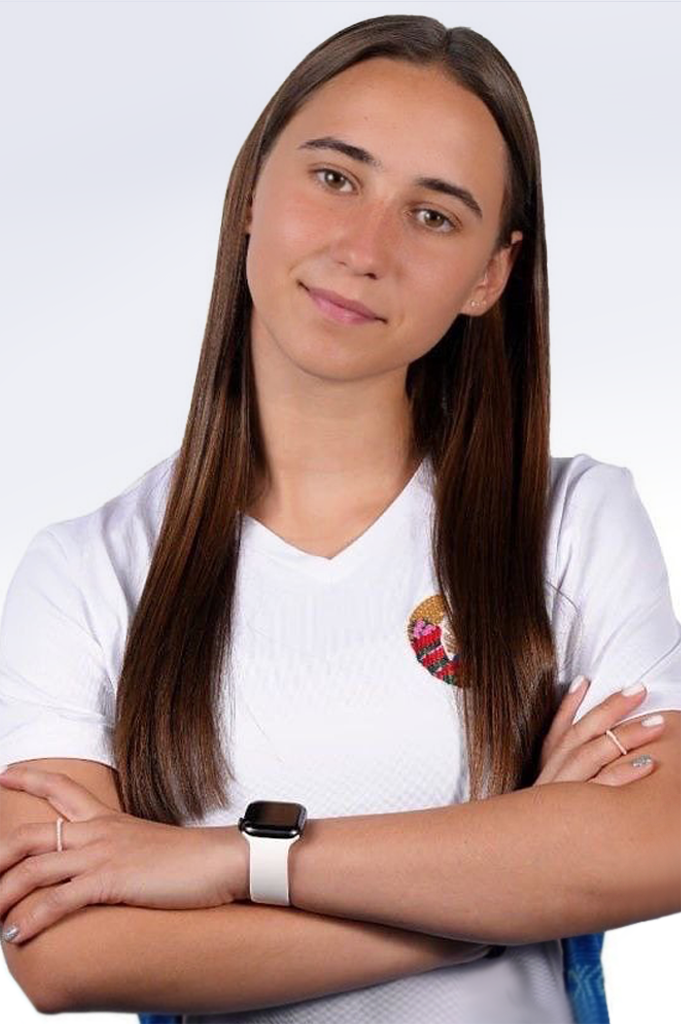
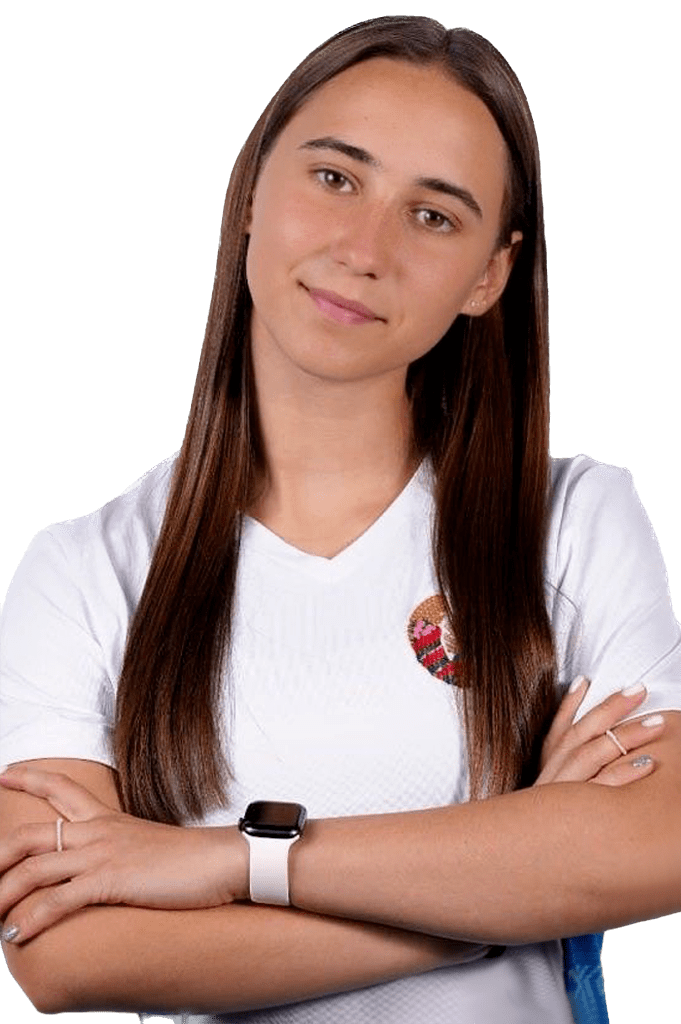
bg/athletes/

diff --git a/athletes.html b/athletes.html
@@ -43,61 +43,61 @@
     <section class="athletes">
       <div class="container athletes-container">
         <div class="athletes-item">
-          <img src="./images/Гуськова-min.jpeg" class="athletes-image">
+          <img src="./images/Гуськова.png" class="athletes-image">
           <div class="athletes-info">
             <p class="athletes-info-text">Гуськова Анна Андреевна</p>
             <p class="athletes-info-text">28.08.1992</p>
-            <p class="athletes-info-text">фристайл</p>
+            <p class="athletes-info-text">Фристайл, Минск</p>
             <p class="athletes-info-text">Заслуженный мастер спорта Республики Беларусь</p>
             <a class="athletes-link" href="https://www.fis-ski.com/DB/general/athlete-biography.html?sectorcode=FS&competitorid=113638" target="_blank">FIS</a>
           </div>
         </div>
         <div class="athletes-item">
-          <img src="./images/Гладченко-min.jpeg" class="athletes-image">
+          <img src="./images/Гладченко.png" class="athletes-image">
           <div class="athletes-info">
             <p class="athletes-info-text">Гладченко Станислав Александрович</p>
             <p class="athletes-info-text">14.09.1994</p>
-            <p class="athletes-info-text">фристайл</p>
+            <p class="athletes-info-text">Фристайл, Минск</p>
             <p class="athletes-info-text">Мастер спорта международного класса</p>
             <a class="athletes-link" href="https://www.fis-ski.com/DB/general/athlete-biography.html?sectorcode=FS&competitorid=153273" target="_blank">FIS</a>
           </div>
         </div>
         <div class="athletes-item">
-          <img src="./images/Тимерцев-min.jpeg" class="athletes-image">
+          <img src="./images/Тимерцев.png" class="athletes-image">
           <div class="athletes-info">
             <p class="athletes-info-text">Тимерцев Вячеслав Александрович</p>
             <p class="athletes-info-text">09.05.2000</p>
-            <p class="athletes-info-text">фристайл</p>
+            <p class="athletes-info-text">Фристайл, Гомель</p>
             <p class="athletes-info-text">Мастер спорта </p>
             <a class="athletes-link" href="https://www.fis-ski.com/DB/general/athlete-biography.html?sectorcode=FS&competitorid=189217" target="_blank">FIS</a>
           </div>
         </div> 
         <div class="athletes-item">
-          <img src="./images/Дик-min.jpeg" class="athletes-image">
+          <img src="./images/Дик.png" class="athletes-image">
           <div class="athletes-info">
             <p class="athletes-info-text">Дик Павел Андреевич</p>
             <p class="athletes-info-text">18.11.1998</p>
-            <p class="athletes-info-text">фристайл</p>
+            <p class="athletes-info-text">Фристайл, Минск</p>
             <p class="athletes-info-text">Мастер спорта</p>
             <a class="athletes-link" href="https://www.fis-ski.com/DB/general/athlete-biography.html?sectorcode=FS&competitorid=189223" target="_blank">FIS</a>
           </div>
         </div> 
         <div class="athletes-item">
-          <img src="./images/деруго фон.png" class="athletes-image">
+          <img src="./images/деруго.png" class="athletes-image">
           <div class="athletes-info">
             <p class="athletes-info-text">Деруго Анна Денисовна</p>
             <p class="athletes-info-text">19.11.2003</p>
-            <p class="athletes-info-text">фристайл</p>
+            <p class="athletes-info-text">Фристайл, Минск</p>
             <p class="athletes-info-text">Спортсмен-инструктор национальной команды Республики Беларусь</p>
             <a class="athletes-link" href="https://www.fis-ski.com/DB/general/athlete-biography.html?sectorcode=FS&competitorid=234464" target="_blank">FIS</a>
           </div>
         </div> 
         <div class="athletes-item">
-          <img src="./images/Дребенков-min.jpeg" class="athletes-image">
+          <img src="./images/Дребенков.png" class="athletes-image">
           <div class="athletes-info">
             <p class="athletes-info-text">Дребенков Игорь Олегович</p>
             <p class="athletes-info-text">24.07.2001</p>
-            <p class="athletes-info-text">фристайл</p>
+            <p class="athletes-info-text">Фристайл, Гомель</p>
             <p class="athletes-info-text">Мастер спорта международного класса</p>
             <a class="athletes-link" href="https://www.fis-ski.com/DB/general/athlete-biography.html?sectorcode=FS&competitorid=197009" target="_blank">FIS</a>
           </div>
@@ -107,7 +107,7 @@
           <div class="athletes-info">
             <p class="athletes-info-text">Андриянова Анастасия Эдуардовна</p>
             <p class="athletes-info-text">08.12.2004</p>
-            <p class="athletes-info-text">фристайл</p>
+            <p class="athletes-info-text">Фристайл, Минск</p>
             <p class="athletes-info-text">Мастер спорта международного класса</p>
             <a class="athletes-link" href="https://www.fis-ski.com/DB/general/athlete-biography.html?sectorcode=FS&competitorid=236239" target="_blank">FIS</a>
           </div>
@@ -117,17 +117,17 @@
           <div class="athletes-info">
             <p class="athletes-info-text">Кузьмин Андрей Витальевич</p>
             <p class="athletes-info-text">28.02.2001</p>
-            <p class="athletes-info-text">фристайл</p>
+            <p class="athletes-info-text">Фристайл, Минск</p>
             <p class="athletes-info-text">Спортсмен-инструктор национальной команды Республики Беларусь по фристайлум</p>
             <a class="athletes-link" href="https://www.fis-ski.com/DB/general/athlete-biography.html?sectorcode=FS&competitorid=197010" target="_blank">FIS</a>
           </div>
         </div>
         <div class="athletes-item">
-          <img src="./images/Митрофанов-min.jpeg" class="athletes-image">
+          <img src="./images/Митрофанов.png" class="athletes-image">
           <div class="athletes-info">
             <p class="athletes-info-text">Митрофанов Макар Иванович</p>
             <p class="athletes-info-text">07.08.2003</p>
-            <p class="athletes-info-text">фристайл</p>
+            <p class="athletes-info-text">Фристайл, Минск</p>
             <p class="athletes-info-text">Мастер спорта международного класса</p>
             <a class="athletes-link" href="https://www.fis-ski.com/DB/general/athlete-biography.html?sectorcode=FS&competitorid=224832" target="_blank">FIS</a>
           </div>

diff --git a/css/style.css b/css/style.css
@@ -9,6 +9,8 @@ body {
   letter-spacing: 0.1px;
   position: relative;
   min-height: 100vh;
+  background: url(../images/background/bg9.jpg)no-repeat fixed;
+  background-size: 100% 100%;
 }
 
 .container {
@@ -88,10 +90,10 @@ body {
   font-size: 8px;
   text-transform: uppercase;
   background: orangered;
-  border: 1px solid orangered;
+  border: 1px solid rgb(0, 0, 0);
   border-radius: 10px;
   cursor: pointer;
-  color: #fff;
+  color: #000000;
   -webkit-transition: 0.4s;
   transition: 0.4s;
   text-decoration: none;
@@ -100,7 +102,7 @@ body {
 
 .header-topnav a:hover {
   background: inherit;
-  color: orangered;
+  color: rgb(255, 255, 255);
   -webkit-transition: 0.4s;
   transition: 0.4s;
 }
@@ -191,8 +193,8 @@ body {
     position: absolute;
     /* background: #f9f9fa; */
     background: orangered;
-    -webkit-box-shadow: 0px 2px 4px rgba(191, 196, 201, 0.2), 0px 3px 4px rgba(191, 196, 201, 0.18), 0px 1px 5px rgba(191, 196, 201, 0.24);
-            box-shadow: 0px 2px 4px rgba(191, 196, 201, 0.2), 0px 3px 4px rgba(191, 196, 201, 0.18), 0px 1px 5px rgba(191, 196, 201, 0.24);
+    -webkit-box-shadow: 0px 2px 4px rgba(255, 255, 255, 0.555), 0px 3px 4px rgba(255, 255, 255, 0.541), 0px 1px 5px rgba(255, 255, 255, 0.486);
+            box-shadow: 0px 2px 4px rgba(253, 253, 253, 0.425), 0px 3px 4px rgba(255, 255, 255, 0.486), 0px 1px 5px rgba(252, 252, 252, 0.466);
     border-radius: 10px;
     right: 40px;
     padding: 10px;
@@ -286,6 +288,9 @@ body {
 }
 
 .athletes-item {
+  background: rgba(255, 255, 255, 0.6);
+  border: 1px solid orangered;
+  border-radius: 10px;
   display: flex;
   align-items: center;
   margin-bottom: 20px;
@@ -295,7 +300,7 @@ body {
   width: 200px;
   height: 200px;
   object-fit: contain;
-  border-radius: 100px;
+  /* border-radius: 100px; */
   transition: 1s all ease-in-out;
 }
 .athletes-image:hover {
